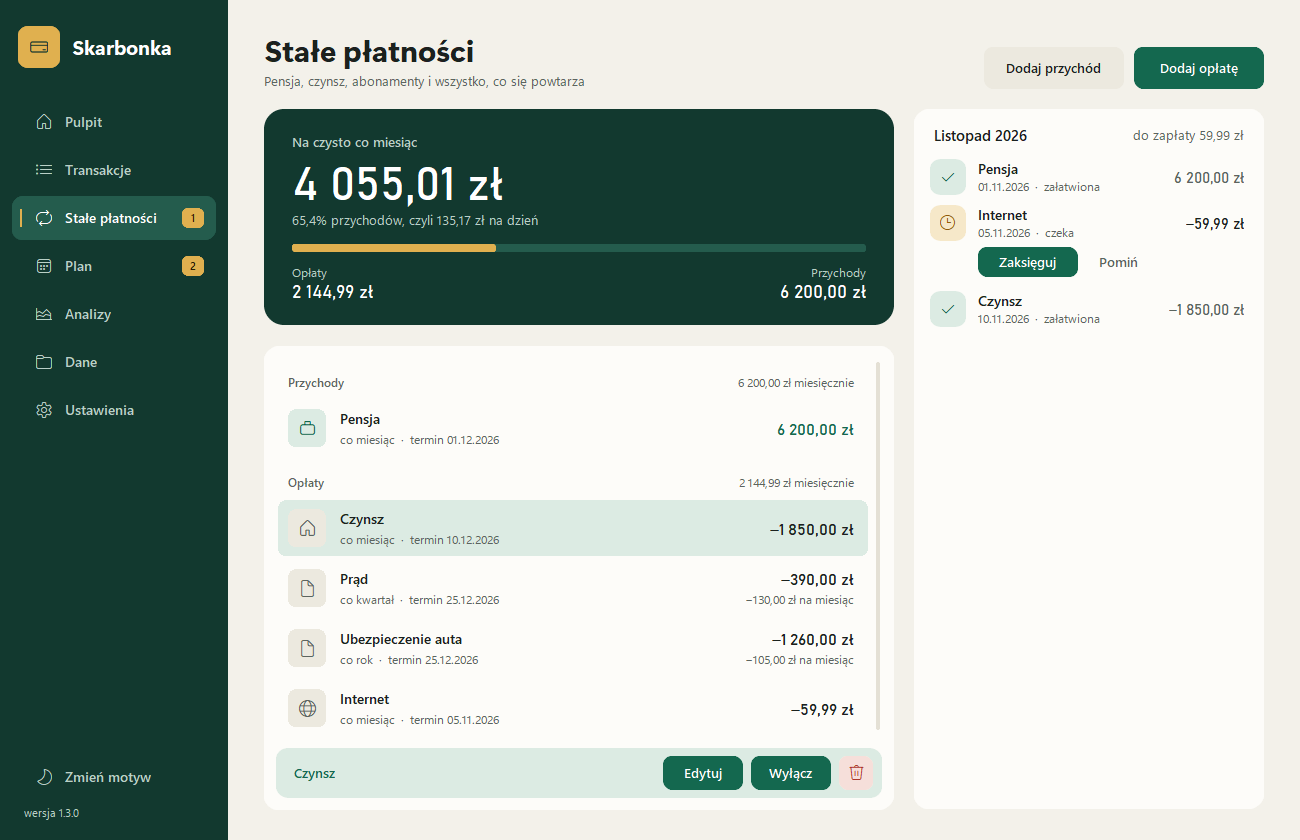
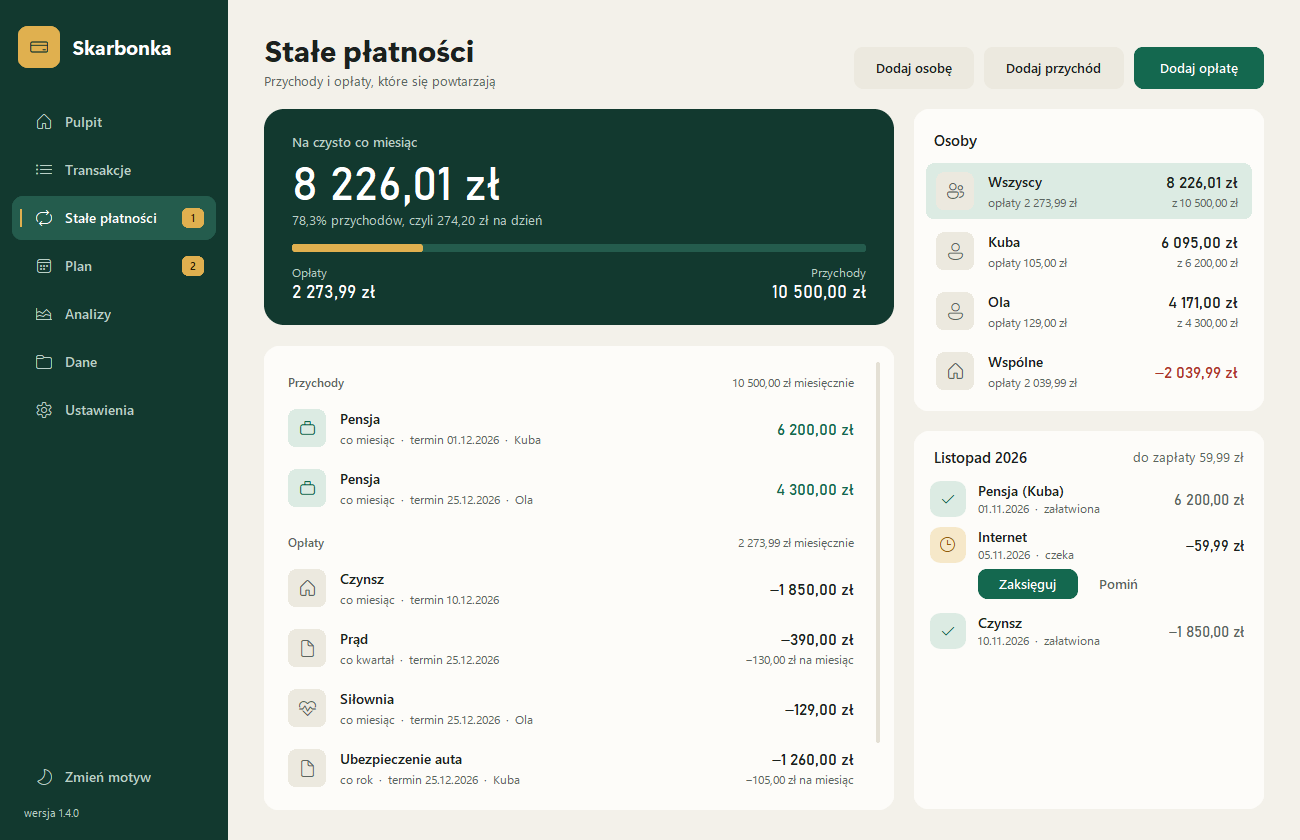
Opisz osoby w README

diff --git a/README.md b/README.md
@@ -17,7 +17,7 @@ Menedżer budżetu domowego z dwoma interfejsami: w oknie i w konsoli. Zapisuje 
 ## Najważniejsze funkcje
 
 - **Transakcje:** wydatki, przychody i przelewy między kontami, edycja, wyszukiwanie, wydatki w obcej walucie
-- **Stałe płatności:** regularne przychody i opłaty (co tydzień, miesiąc, kwartał lub rok), kwota, która zostaje na czysto, terminy i księgowanie jednym kliknięciem
+- **Stałe płatności:** regularne przychody i opłaty (co tydzień, miesiąc, kwartał lub rok), kwota, która zostaje na czysto, osobno dla każdej osoby i razem, terminy i księgowanie jednym kliknięciem
 - **Plan:** budżety z ostrzeżeniami, cele oszczędnościowe
 - **Analizy:** podsumowania, udziały kategorii, trend, prognoza salda w trzech wariantach, wykresy PNG
 - **Dane:** import wyciągów CSV z wykrywaniem duplikatów, eksport CSV, raport TXT, kopie zapasowe JSON
@@ -84,7 +84,7 @@ Testy:
 | Menu | Opcje |
 |---|---|
 | 1. Transakcje | dodaj wydatek, dodaj przychód, przelew, wydatek w obcej walucie, lista, szukaj i filtruj, edytuj, usuń |
-| 2. Plan | budżety (stan, limit, kopiowanie, usuwanie), cele (postęp, dodawanie, wpłaty, usuwanie), stałe przychody i opłaty (lista i kwota na czysto, płatności w tym miesiącu, dodawanie, edycja, księgowanie zaległych, wyłączanie, usuwanie) |
+| 2. Plan | budżety (stan, limit, kopiowanie, usuwanie), cele (postęp, dodawanie, wpłaty, usuwanie), stałe przychody i opłaty (lista i kwota na czysto, płatności w tym miesiącu, dodawanie, edycja, księgowanie zaległych, wyłączanie, usuwanie, osoby) |
 | 3. Analizy | saldo i sumy, podsumowanie miesiąca, kategorie, trend, największe wydatki, prognoza, wykresy PNG |
 | 4. Dane | import CSV, cofnięcie importu, eksport CSV, raport TXT, utworzenie i przywrócenie kopii |
 | 5. Ustawienia | konta, kategorie, reguły kategorii, profile CSV banków, próg ostrzeżeń |
@@ -99,7 +99,7 @@ Pliki do wypróbowania importu są w katalogu `przyklady`: poprawny `wyciag_demo
 |---|---|
 | Pulpit | saldo z wykresem, bieżący miesiąc, prognoza, ostatnie transakcje, sprawy do załatwienia |
 | Transakcje | lista pogrupowana dniami, szukanie w trakcie pisania, filtry okresu, konta i kategorii, edycja (także dwuklikiem) i usuwanie |
-| Stałe płatności | kwota na czysto co miesiąc, lista stałych przychodów i opłat, terminy tego miesiąca z księgowaniem |
+| Stałe płatności | kwota na czysto co miesiąc, osoby i to, ile zostaje każdej z nich, lista stałych przychodów i opłat, terminy tego miesiąca z księgowaniem |
 | Plan | budżety i cele z paskami postępu |
 | Analizy | wykresy kategorii, trendu i salda, zapis do PNG, prognoza |
 | Dane | import z podglądem i duplikatami, eksport, raport, kopie zapasowe |
@@ -143,7 +143,7 @@ Zależności idą w jedną stronę: `ui` lub `gui -> services -> storage`, a z `
 
 Kwoty są typu `Decimal`, a w bazie są zapisywane w groszach jako liczby całkowite, więc nie powstają błędy zaokrągleń.
 
-**Jak powstaje kwota na czysto.** Każda aktywna stała pozycja jest przeliczana na jeden miesiąc: tygodniowa razy 52 i przez 12, kwartalna przez 3, roczna przez 12. Od sumy stałych przychodów aplikacja odejmuje sumę stałych opłat. Opłata dodana do listy nie zmienia salda, dopóki nie zostanie zaksięgowana. Płatność zaksięgowana przed terminem dostaje dzisiejszą datę.
+**Jak powstaje kwota na czysto.** Każda aktywna stała pozycja jest przeliczana na jeden miesiąc: tygodniowa razy 52 i przez 12, kwartalna przez 3, roczna przez 12. Od sumy stałych przychodów aplikacja odejmuje sumę stałych opłat. Opłata dodana do listy nie zmienia salda, dopóki nie zostanie zaksięgowana. Płatność zaksięgowana przed terminem dostaje dzisiejszą datę. Każda pozycja należy do jednej osoby albo jest wspólna; transakcja z pozycji osoby ma jej imię w opisie.
 
 **Jak powstaje prognoza.** Od dzisiejszego salda aplikacja odejmuje lub dodaje niezaksięgowane stałe płatności do końca miesiąca, a potem odejmuje dzienne tempo pozostałych wydatków pomnożone przez liczbę dni. Tempo pochodzi z trzech poprzednich miesięcy: średnia daje wariant realistyczny, najniższe optymistyczny, najwyższe pesymistyczny.
 
